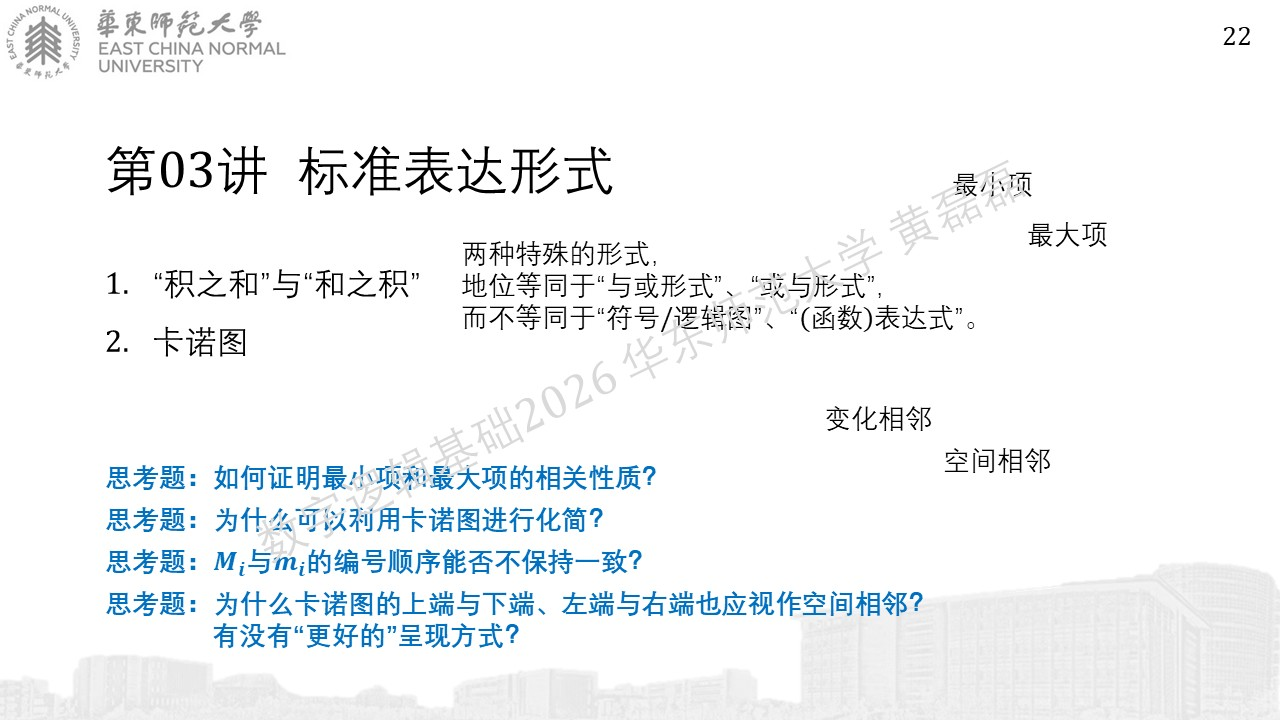
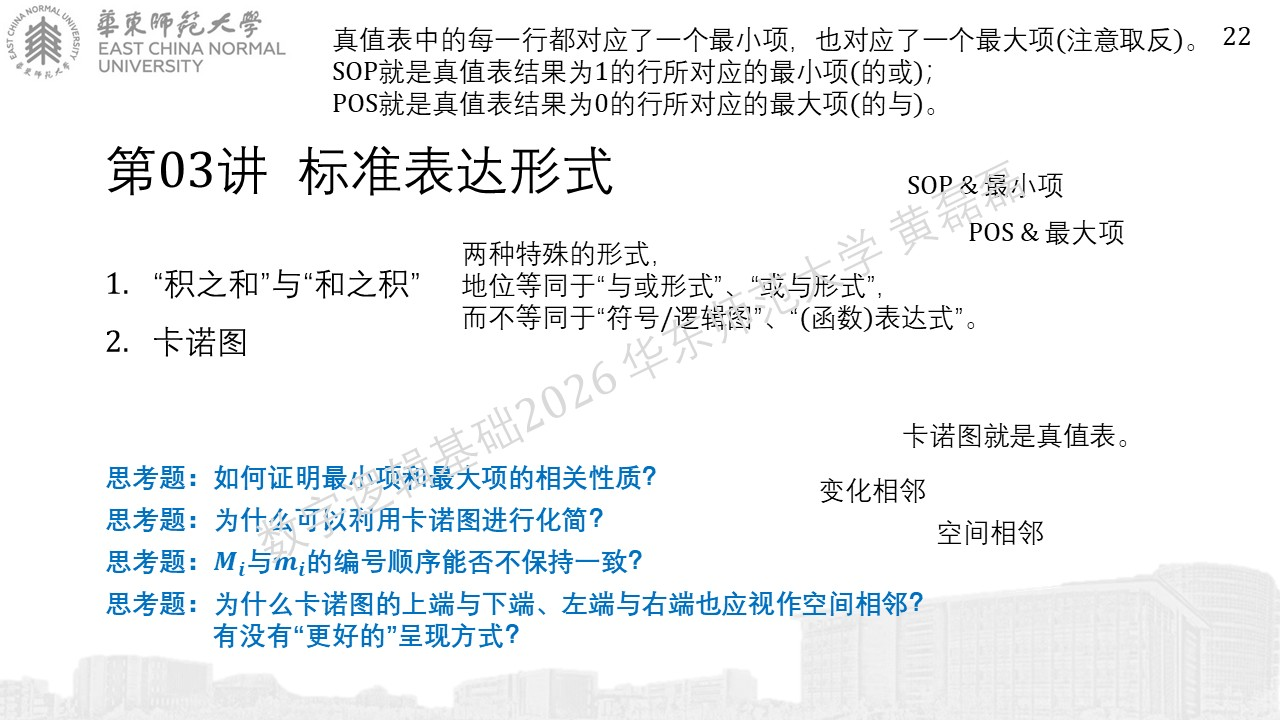
4th lecture

diff --git a/source/index.rst b/source/index.rst
@@ -21,7 +21,7 @@
    数字逻辑基础 - 第01讲 - 逻辑代数 - 概述/index
    数字逻辑基础 - 第02讲 - 逻辑代数 - 基本定理/index
    数字逻辑基础 - 第03讲 - 逻辑代数 - 标准表达形式/index
-.. 数字逻辑基础 - 第04讲 - 逻辑代数 - 逻辑化简/index
+   数字逻辑基础 - 第04讲 - 逻辑代数 - 逻辑化简/index
 .. 数字逻辑基础 - 第04讲~第05讲 - 补充A - 数制运算和编码/index
 .. 数字逻辑基础 - 第04讲~第05讲 - 补充B - 编码纠错/index
 .. 数字逻辑基础 - 第05讲 - 组合逻辑 - 电路的分析/index
@@ -47,17 +47,17 @@
 习题讲解
 ----------------------------------------
 
-.. .. toctree::
-..    :maxdepth: 2
-.. 
-..    数字逻辑基础 - 第01周习题的讲解/index
-..    数字逻辑基础 - 第02周习题的讲解/index
-..    数字逻辑基础 - 第04周习题的讲解/index
-..    数字逻辑基础 - 第05周习题的讲解/index
-..    数字逻辑基础 - 第06周习题的讲解/index
-..    数字逻辑基础 - 第08周习题的讲解/index
-..    数字逻辑基础 - 第10周习题的讲解/index
-..    数字逻辑基础 - 第11周习题的讲解/index
+.. toctree::
+   :maxdepth: 2
+ 
+   数字逻辑基础 - 第01周习题的讲解/index
+.. 数字逻辑基础 - 第02周习题的讲解/index
+.. 数字逻辑基础 - 第04周习题的讲解/index
+.. 数字逻辑基础 - 第05周习题的讲解/index
+.. 数字逻辑基础 - 第06周习题的讲解/index
+.. 数字逻辑基础 - 第08周习题的讲解/index
+.. 数字逻辑基础 - 第10周习题的讲解/index
+.. 数字逻辑基础 - 第11周习题的讲解/index
 
 
 修订补充
@@ -68,7 +68,7 @@
 
    数字逻辑基础 - 第01讲的修订与补充/index
    数字逻辑基础 - 第02讲的修订与补充/index
-..    数字逻辑基础 - 第03讲的修订与补充/index
+   数字逻辑基础 - 第03讲的修订与补充/index
 ..    数字逻辑基础 - 第04讲的修订与补充/index
 ..    数字逻辑基础 - 第04讲~第05讲的修订与补充/index
 ..    数字逻辑基础 - 第06讲的修订与补充/index

diff --git a/source/数字逻辑基础 - 第04讲 - 逻辑代数 - 逻辑化简/index.rst b/source/数字逻辑基础 - 第04讲 - 逻辑代数 - 逻辑化简/index.rst
@@ -1,0 +1,50 @@
+.. -----------------------------------------------------------------------------
+   ..
+   ..  Filename       : index.rst
+   ..  Author         : Huang Leilei
+   ..  Status         : phase 000
+   ..  Created        : 2025-09-16
+   ..  Description    : description about 第04讲 - 逻辑代数 - 逻辑化简
+   ..
+.. -----------------------------------------------------------------------------
+
+第04讲 - 逻辑代数 - 逻辑化简
+--------------------------------------------------------------------------------
+
+.. image:: 幻灯片1.JPG
+
+化简的目标
+........................................
+.. image:: 幻灯片2.JPG
+.. image:: 幻灯片3.JPG
+
+卡诺图化简
+........................................
+.. image:: 幻灯片4.JPG
+.. image:: 幻灯片5.JPG
+.. image:: 幻灯片6.JPG
+.. image:: 幻灯片7.JPG
+.. image:: 幻灯片8.JPG
+.. image:: 幻灯片9.JPG
+
+代数法化简
+........................................
+.. image:: 幻灯片10.JPG
+.. image:: 幻灯片11.JPG
+.. image:: 幻灯片12.JPG
+.. image:: 幻灯片13.JPG
+
+形式转换
+........................................
+.. image:: 幻灯片14.JPG
+.. image:: 幻灯片15.JPG
+.. image:: 幻灯片16.JPG
+
+\
+
+.. image:: 课堂练习答案_for_html.jpg
+
+\
+
+.. image:: 幻灯片17.JPG
+.. image:: 幻灯片18.JPG

diff --git a/source/数字逻辑基础 - 第03讲的修订与补充/index.rst b/source/数字逻辑基础 - 第03讲的修订与补充/index.rst
@@ -1,0 +1,29 @@
+.. -----------------------------------------------------------------------------
+   ..
+   ..  Filename       : index.rst
+   ..  Author         : Huang Leilei
+   ..  Status         : phase 000
+   ..  Created        : 2025-09-16
+   ..  Description    : description about 第03讲的修订与补充
+   ..
+.. -----------------------------------------------------------------------------
+
+第03讲的修订与补充
+--------------------------------------------------------------------------------
+
+.. image:: 幻灯片1.JPG
+.. image:: 幻灯片2.JPG
+.. image:: 幻灯片3.JPG
+.. image:: 幻灯片4.JPG
+.. image:: 幻灯片5.JPG
+.. image:: 幻灯片6.JPG
+.. image:: 幻灯片7.JPG
+.. image:: 幻灯片8.JPG
+.. image:: 幻灯片9.JPG
+.. image:: 幻灯片10.JPG
+.. image:: 幻灯片11.JPG
+.. image:: 幻灯片12.JPG
+.. image:: 幻灯片13.JPG
+.. image:: 幻灯片14.JPG
+.. image:: 幻灯片15.JPG
+.. image:: 幻灯片16.JPG

diff --git a/source/数字逻辑基础 - 第01周习题的讲解/index.rst b/source/数字逻辑基础 - 第01周习题的讲解/index.rst
@@ -1,0 +1,20 @@
+.. -----------------------------------------------------------------------------
+   ..
+   ..  Filename       : index.rst
+   ..  Author         : Huang Leilei
+   ..  Status         : phase 000
+   ..  Created        : 2025-09-16
+   ..  Description    : description about 第01周习题的讲解
+   ..
+.. -----------------------------------------------------------------------------
+
+第01周习题的讲解
+--------------------------------------------------------------------------------
+
+.. image:: 幻灯片1.JPG
+.. image:: 幻灯片2.JPG
+.. image:: 幻灯片3.JPG
+.. image:: 幻灯片4.JPG
+.. image:: 幻灯片5.JPG
+.. image:: 幻灯片6.JPG
+.. image:: 幻灯片7.JPG
